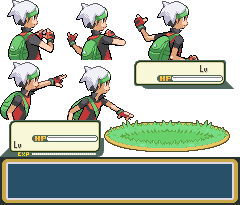
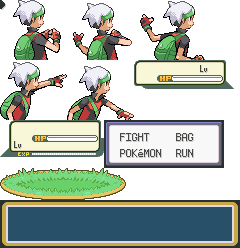
battle actions ui added

diff --git a/core/src/main/java/br/com/yago/emerald/view/BattleScreen.java b/core/src/main/java/br/com/yago/emerald/view/BattleScreen.java
@@ -57,6 +57,10 @@ public class BattleScreen extends ScreenAdapter {
     private final HealthBar enemyHealthBar;
     private final Animation<TextureRegion> playerThrowAnimation;
 
+    // ## NOVOS RECURSOS DO MENU DE AÇÃO ##
+    private final TextureRegion battleActionUi;
+    private final TextureRegion actionArrow;
+
     private final Pokemon wildPokemon;
     private final Pokemon playerPokemon;
     private Animation<TextureRegion> playerPokemonAnimation;
@@ -76,6 +80,7 @@ public class BattleScreen extends ScreenAdapter {
     private final Vector2 playerStatusOffScreenPos;
     private final Vector2 playerStatusCurrentPos = new Vector2();
 
+    // ## MÁQUINA DE ESTADO ATUALIZADA ##
     private enum BattleState {
         WILD_INTRO_TYPING,
         WILD_INTRO_WAIT,
@@ -84,7 +89,7 @@ public class BattleScreen extends ScreenAdapter {
         PLAYER_THROWING,
         TRANSITION_OUT,
         STATUS_BAR_ENTERING,
-        BATTLE_READY
+        ACTION_SELECTION // Novo estado para o menu de ação
     }
     private BattleState currentState;
 
@@ -94,6 +99,10 @@ public class BattleScreen extends ScreenAdapter {
     private float typewriterTimer = 0f;
     private final float charsPerSecond = 40f;
     private float indicatorTimer = 0f;
+
+    // ## LÓGICA DO MENU DE AÇÃO ##
+    private int selectedActionIndex = 0; // 0:FIGHT, 1:BAG, 2:POKEMON, 3:RUN
+    private final Array<Vector2> actionArrowPositions = new Array<>();
 
     public BattleScreen(EmeraldGame game, GameScreen gameScreen, SpriteBatch batch, AssetsLoader assetLoader, Party playerParty, Pokemon wildPokemon) {
         this.game = game;
@@ -118,6 +127,16 @@ public class BattleScreen extends ScreenAdapter {
         this.platform = battleAtlas.findRegion("plataform");
         this.statusEnemy = battleAtlas.findRegion("status_enemy");
         this.statusPlayer = battleAtlas.findRegion("status_player");
+        
+        // ## CARREGANDO AS TEXTURAS DO MENU ##
+        this.battleActionUi = battleAtlas.findRegion("battle_action_ui");
+        this.actionArrow = battleAtlas.findRegion("action_arrow");
+
+        // ## DEFININDO POSIÇÕES DA SETA DE AÇÃO ##
+        actionArrowPositions.add(new Vector2(128, 25)); // FIGHT
+        actionArrowPositions.add(new Vector2(185, 25)); // BAG
+        actionArrowPositions.add(new Vector2(128, 9));  // POKEMON
+        actionArrowPositions.add(new Vector2(185, 9));  // RUN
 
         Array<TextureRegion> throwFrames = new Array<>();
         for (int i = 1; i <= 5; i++) {
@@ -150,6 +169,11 @@ public class BattleScreen extends ScreenAdapter {
     
     private void startGoMessage() {
         setMessage("Vai " + playerPokemon.getNickname().toUpperCase() + "!", BattleState.GO_MESSAGE_TYPING);
+    }
+    
+    // ## NOVO MÉTODO PARA A MENSAGEM DE AÇÃO ##
+    private void startActionMessage() {
+        setMessage("What will\n" + playerPokemon.getNickname().toUpperCase() + " do?", BattleState.ACTION_SELECTION);
     }
 
     private void setMessage(String message, BattleState nextState) {
@@ -187,27 +211,56 @@ public class BattleScreen extends ScreenAdapter {
         Gdx.input.setInputProcessor(new InputAdapter() {
             @Override
             public boolean keyDown(int keycode) {
-                if (keycode == Input.Keys.Z || keycode == Input.Keys.X) {
-                    if (currentState == BattleState.WILD_INTRO_TYPING) {
+                // ## LÓGICA DE INPUT ATUALIZADA ##
+                if (currentState == BattleState.WILD_INTRO_TYPING) {
+                    if (keycode == Input.Keys.Z || keycode == Input.Keys.X) {
                         visibleMessage = fullMessage;
                         charIndex = fullMessage.length();
                         currentState = BattleState.WILD_INTRO_WAIT;
                         return true;
-                    } else if (currentState == BattleState.WILD_INTRO_WAIT) {
+                    }
+                } else if (currentState == BattleState.WILD_INTRO_WAIT) {
+                    if (keycode == Input.Keys.Z || keycode == Input.Keys.X) {
                         startGoMessage();
                         return true;
-                    } else if (currentState == BattleState.GO_MESSAGE_TYPING) {
+                    }
+                } else if (currentState == BattleState.GO_MESSAGE_TYPING) {
+                     if (keycode == Input.Keys.Z || keycode == Input.Keys.X) {
                         visibleMessage = fullMessage;
                         charIndex = fullMessage.length();
                         currentState = BattleState.GO_MESSAGE_WAIT;
                         return true;
-                    } else if (currentState == BattleState.GO_MESSAGE_WAIT) {
+                    }
+                } else if (currentState == BattleState.GO_MESSAGE_WAIT) {
+                    if (keycode == Input.Keys.Z || keycode == Input.Keys.X) {
                         currentState = BattleState.PLAYER_THROWING;
                         playerSpriteTimer = 0f;
                         return true;
-                    } else if (currentState == BattleState.BATTLE_READY) {
-                        game.closeBattleScreen();
-                        return true;
+                    }
+                } else if (currentState == BattleState.ACTION_SELECTION) {
+                    switch (keycode) {
+                        case Input.Keys.UP:
+                            if (selectedActionIndex == 2) selectedActionIndex = 0; // POKEMON -> FIGHT
+                            if (selectedActionIndex == 3) selectedActionIndex = 1; // RUN -> BAG
+                            return true;
+                        case Input.Keys.DOWN:
+                            if (selectedActionIndex == 0) selectedActionIndex = 2; // FIGHT -> POKEMON
+                            if (selectedActionIndex == 1) selectedActionIndex = 3; // BAG -> RUN
+                            return true;
+                        case Input.Keys.LEFT:
+                            if (selectedActionIndex == 1) selectedActionIndex = 0; // BAG -> FIGHT
+                            if (selectedActionIndex == 3) selectedActionIndex = 2; // RUN -> POKEMON
+                            return true;
+                        case Input.Keys.RIGHT:
+                            if (selectedActionIndex == 0) selectedActionIndex = 1; // FIGHT -> BAG
+                            if (selectedActionIndex == 2) selectedActionIndex = 3; // POKEMON -> RUN
+                            return true;
+                        case Input.Keys.Z:
+                            // Aqui você adicionaria a lógica para cada ação (lutar, usar item, etc.)
+                            Gdx.app.log("BattleScreen", "Ação selecionada: " + selectedActionIndex);
+                            // Por enquanto, vamos fechar a tela para teste
+                            game.closeBattleScreen();
+                            return true;
                     }
                 }
                 return false;
@@ -243,24 +296,35 @@ public class BattleScreen extends ScreenAdapter {
                 playerStatusCurrentPos.interpolate(playerStatusOnScreenPos, transitionTimer, Interpolation.sineOut);
                 if(transitionTimer >= 1.0f) {
                     playerStatusCurrentPos.set(playerStatusOnScreenPos);
-                    currentState = BattleState.BATTLE_READY;
+                    // ## TRANSIÇÃO PARA A SELEÇÃO DE AÇÃO ##
+                    startActionMessage();
                 }
+                break;
+            default:
                 break;
         }
     }
 
     private void updateDialogue(float delta) {
-        if (currentState == BattleState.WILD_INTRO_TYPING || currentState == BattleState.GO_MESSAGE_TYPING) {
+        // ## LÓGICA ATUALIZADA PARA INCLUIR O NOVO ESTADO ##
+        if (currentState == BattleState.WILD_INTRO_TYPING || 
+            currentState == BattleState.GO_MESSAGE_TYPING ||
+            currentState == BattleState.ACTION_SELECTION) {
+                
             typewriterTimer += delta;
             if (typewriterTimer >= 1f / charsPerSecond) {
                 typewriterTimer = 0f;
                 if (charIndex < fullMessage.length()) {
                     visibleMessage += fullMessage.charAt(charIndex++);
                 } else {
-                    currentState = (currentState == BattleState.WILD_INTRO_TYPING) ? BattleState.WILD_INTRO_WAIT : BattleState.GO_MESSAGE_WAIT;
+                    if (currentState == BattleState.WILD_INTRO_TYPING) {
+                        currentState = BattleState.WILD_INTRO_WAIT;
+                    } else if (currentState == BattleState.GO_MESSAGE_TYPING) {
+                        currentState = BattleState.GO_MESSAGE_WAIT;
+                    }
                 }
             }
-        } else if (currentState == BattleState.WILD_INTRO_WAIT || currentState == BattleState.GO_MESSAGE_WAIT || currentState == BattleState.BATTLE_READY) {
+        } else if (currentState == BattleState.WILD_INTRO_WAIT || currentState == BattleState.GO_MESSAGE_WAIT) {
             indicatorTimer += delta;
         }
     }
@@ -334,9 +398,6 @@ public class BattleScreen extends ScreenAdapter {
         uiViewport.apply();
         batch.setProjectionMatrix(uiCamera.combined);
         
-        // ## ORDEM DE RENDERIZAÇÃO AJUSTADA ##
-        
-        // 1. DESENHA A BARRA DE XP PRIMEIRO (COM SHAPERENDERER)
         if (playerPokemon != null && currentState.ordinal() >= BattleState.STATUS_BAR_ENTERING.ordinal()) {
             shapeRenderer.begin(ShapeRenderer.ShapeType.Filled);
             
@@ -366,7 +427,6 @@ public class BattleScreen extends ScreenAdapter {
             shapeRenderer.end();
         }
 
-        // 2. DESENHA O RESTO DA UI (COM SPRITEBATCH)
         batch.begin();
         
         if (statusEnemy != null) {
@@ -402,10 +462,21 @@ public class BattleScreen extends ScreenAdapter {
             batch.draw(battleTextbox, 0, 0, uiViewport.getWorldWidth(), battleTextbox.getRegionHeight());
         }
 
+        // ## RENDERIZAÇÃO DO MENU DE AÇÃO ##
+        if (currentState == BattleState.ACTION_SELECTION) {
+            // Desenha a caixa de ações
+            float actionBoxX = uiViewport.getWorldWidth() - battleActionUi.getRegionWidth();
+            batch.draw(battleActionUi, actionBoxX, 0);
+
+            // Desenha a seta na posição correta
+            Vector2 arrowPos = actionArrowPositions.get(selectedActionIndex);
+            batch.draw(actionArrow, arrowPos.x, arrowPos.y);
+        }
+
         layout.setText(whiteFont, visibleMessage, whiteFont.getColor(), uiViewport.getWorldWidth() - 20, Align.left, true);
         whiteFont.draw(batch, layout, 10, 34);
         
-        if (currentState == BattleState.WILD_INTRO_WAIT || currentState == BattleState.GO_MESSAGE_WAIT || currentState == BattleState.BATTLE_READY) {
+        if (currentState == BattleState.WILD_INTRO_WAIT || currentState == BattleState.GO_MESSAGE_WAIT) {
             drawWaitingIndicator();
         }
 
@@ -414,35 +485,21 @@ public class BattleScreen extends ScreenAdapter {
 
     private void drawWaitingIndicator() {
         if (layout.runs.size > 0 && layout.runs.peek().glyphs.size > 0) {
-            // última linha (última run do layout)
             GlyphLayout.GlyphRun lastRun = layout.runs.peek();
-
-            // soma dos avanços em X da run (isso já inclui kerning/escala)
             float runWidth = 0f;
             for (int i = 0; i < lastRun.xAdvances.size; i++) {
                 runWidth += lastRun.xAdvances.get(i);
             }
-
-            // x onde o texto foi desenhado
-            float drawX = 10f;            // mesmo X usado no draw: whiteFont.draw(batch, layout, 10, 34)
-            float drawTopY = 28f;         // Y de desenho do bloco de texto
-
-            // posição X da seta: início + deslocamento da run + largura total da run
+            float drawX = 10f;
+            float drawTopY = 28f;
             float arrowX = drawX + lastRun.x + runWidth + 2f;
-
-            // baseline da última linha (run.y já é o offset vertical da linha no layout)
             float lastLineBaselineY = drawTopY + lastRun.y;
-
-            // tamanho e centralização vertical da seta na linha
             float arrowSize = whiteFont.getCapHeight() * 0.75f;
             float arrowBaseY = lastLineBaselineY - (arrowSize / 2f);
-
-            // animação (mesma lógica que você já tinha)
             float speed = 8f;
             float amplitude = 2f;
             float yOffset = (float) Math.sin(indicatorTimer * speed) * amplitude;
             float arrowY = arrowBaseY + yOffset;
-
             batch.draw(dialogueArrow, arrowX, arrowY, arrowSize, arrowSize);
         }
     }

diff --git a/core/src/main/java/br/com/yago/emerald/database/GameDatabase.java b/core/src/main/java/br/com/yago/emerald/database/GameDatabase.java
@@ -125,7 +125,7 @@ public class GameDatabase {
         
         PokemonNature randomNature = PokemonNature.values()[MathUtils.random(PokemonNature.values().length - 1)];
         Pokemon.Gender randomGender = MathUtils.randomBoolean() ? Pokemon.Gender.MALE : Pokemon.Gender.FEMALE;
-        boolean isShiny = MathUtils.random(1, 4096) == 1;
+        boolean isShiny = MathUtils.random(1, 2) == 1;
 
         Pokemon pokemon = new Pokemon(
             data,
